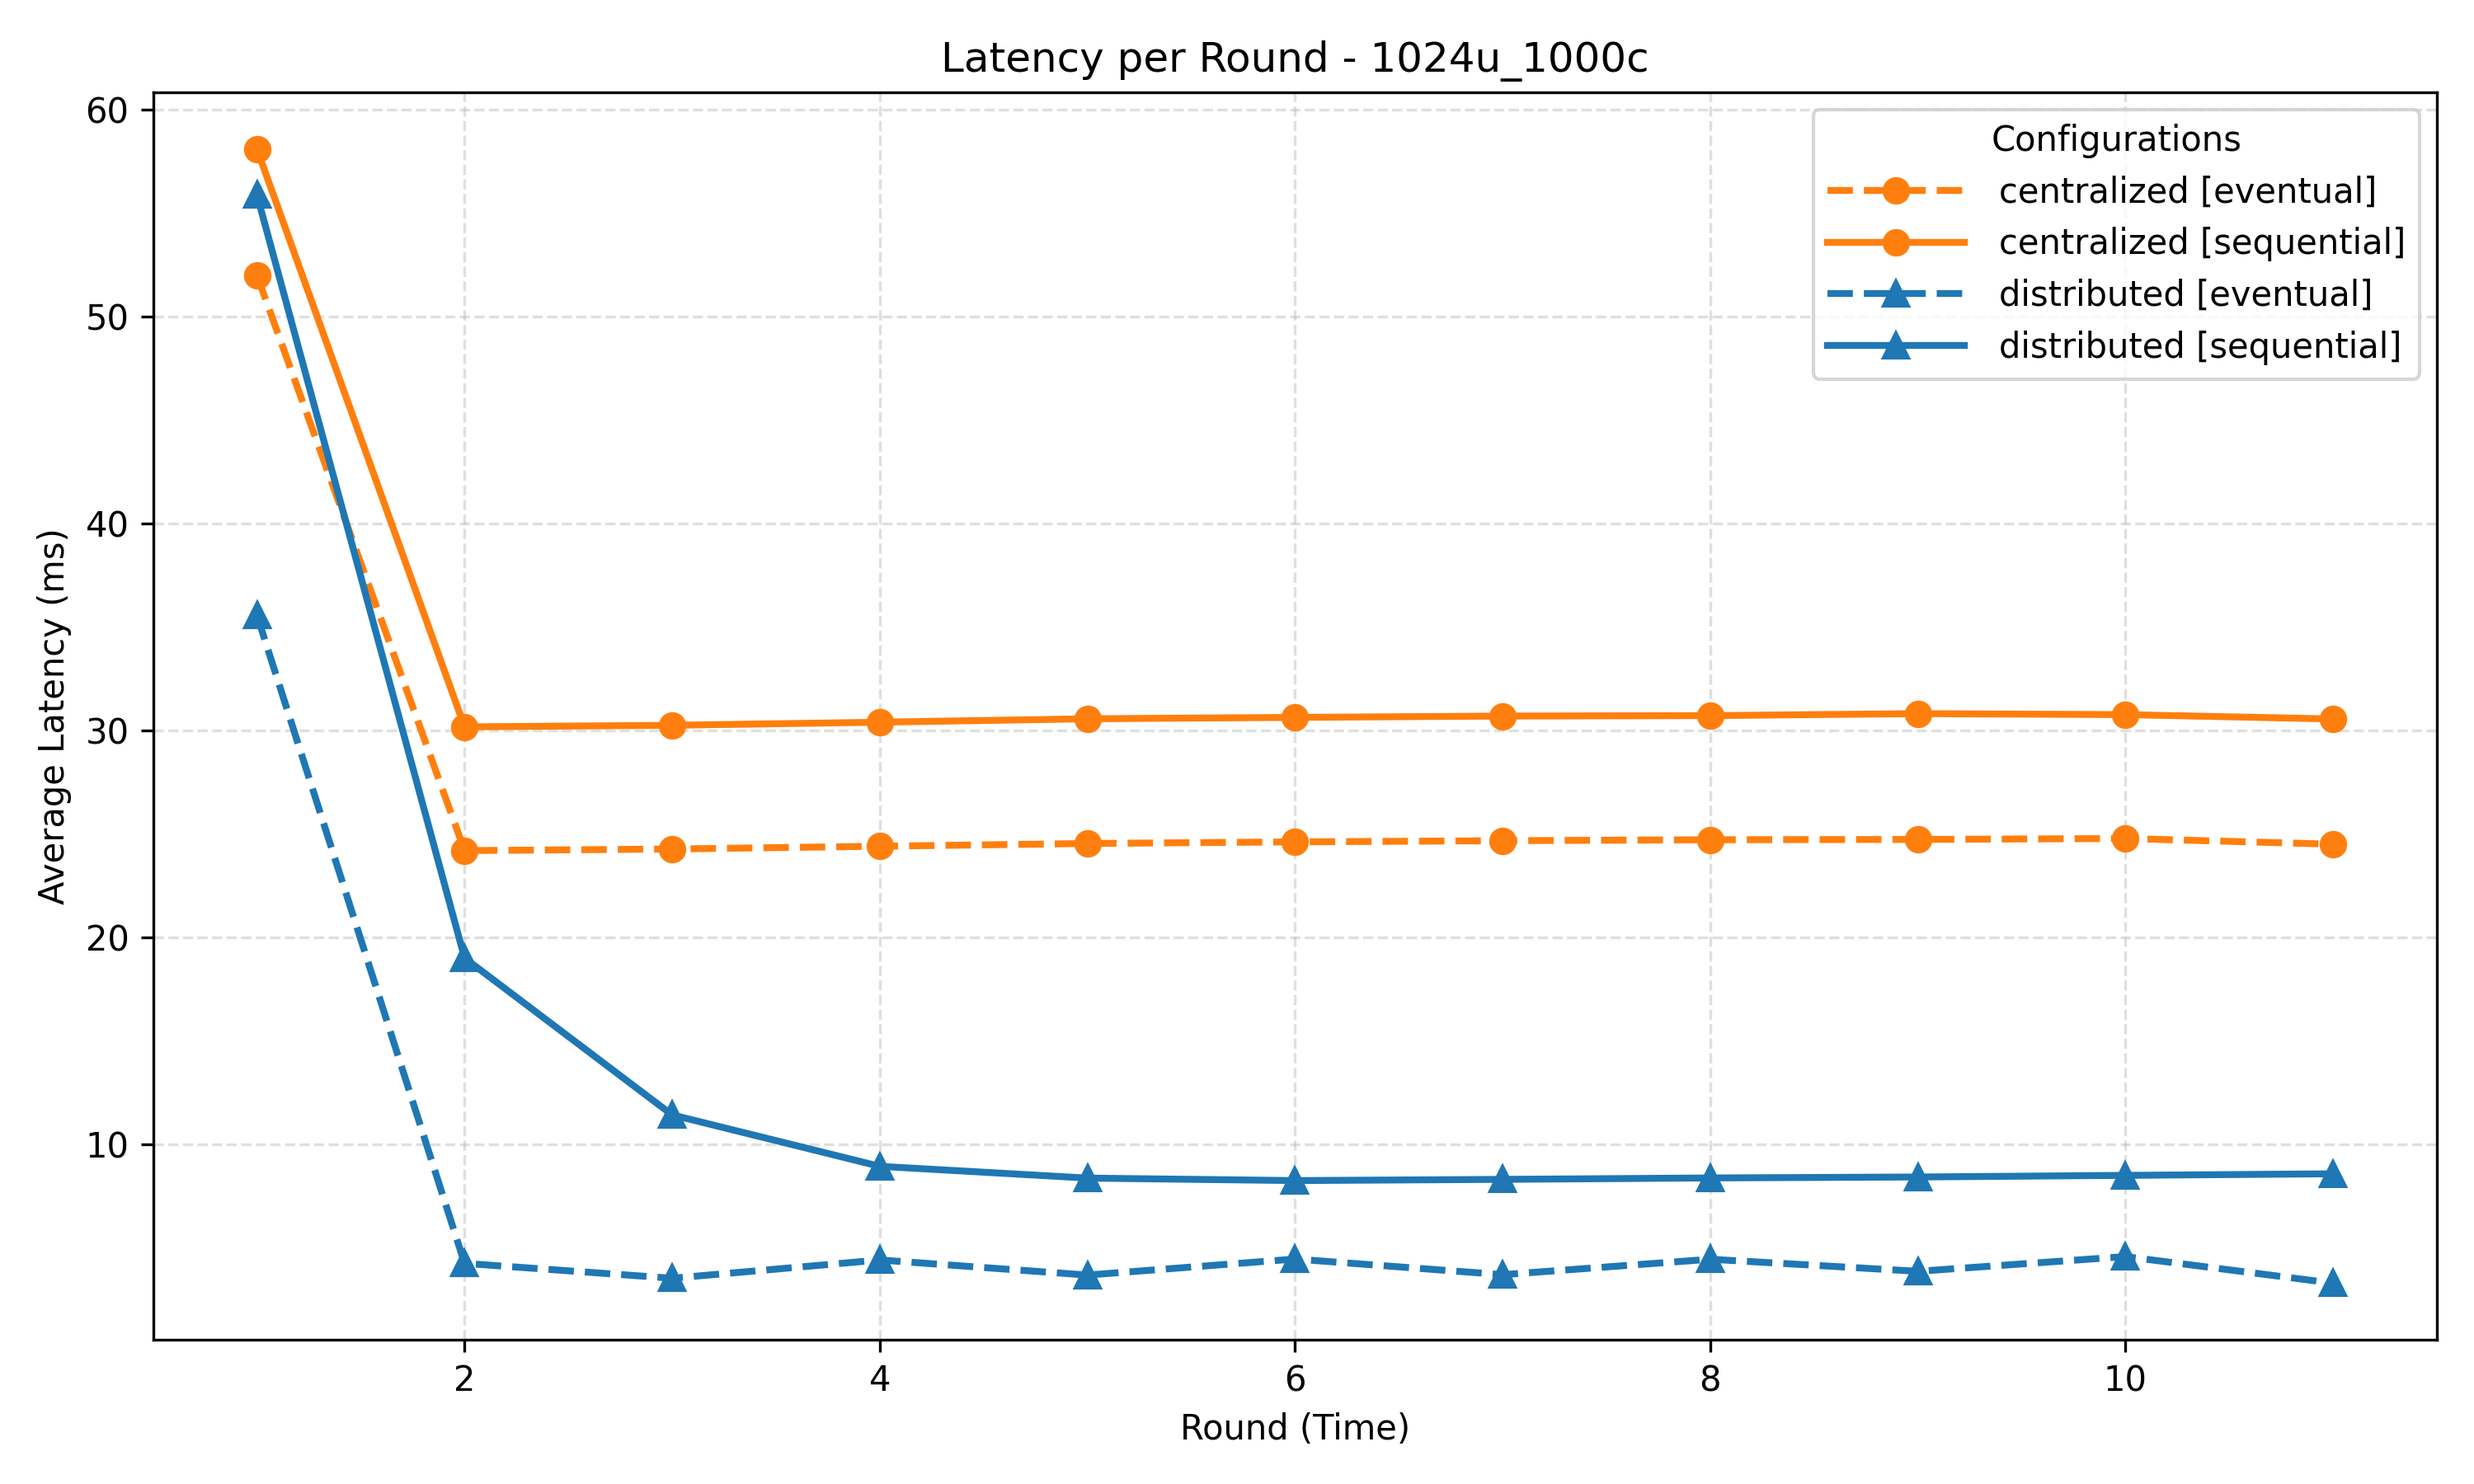
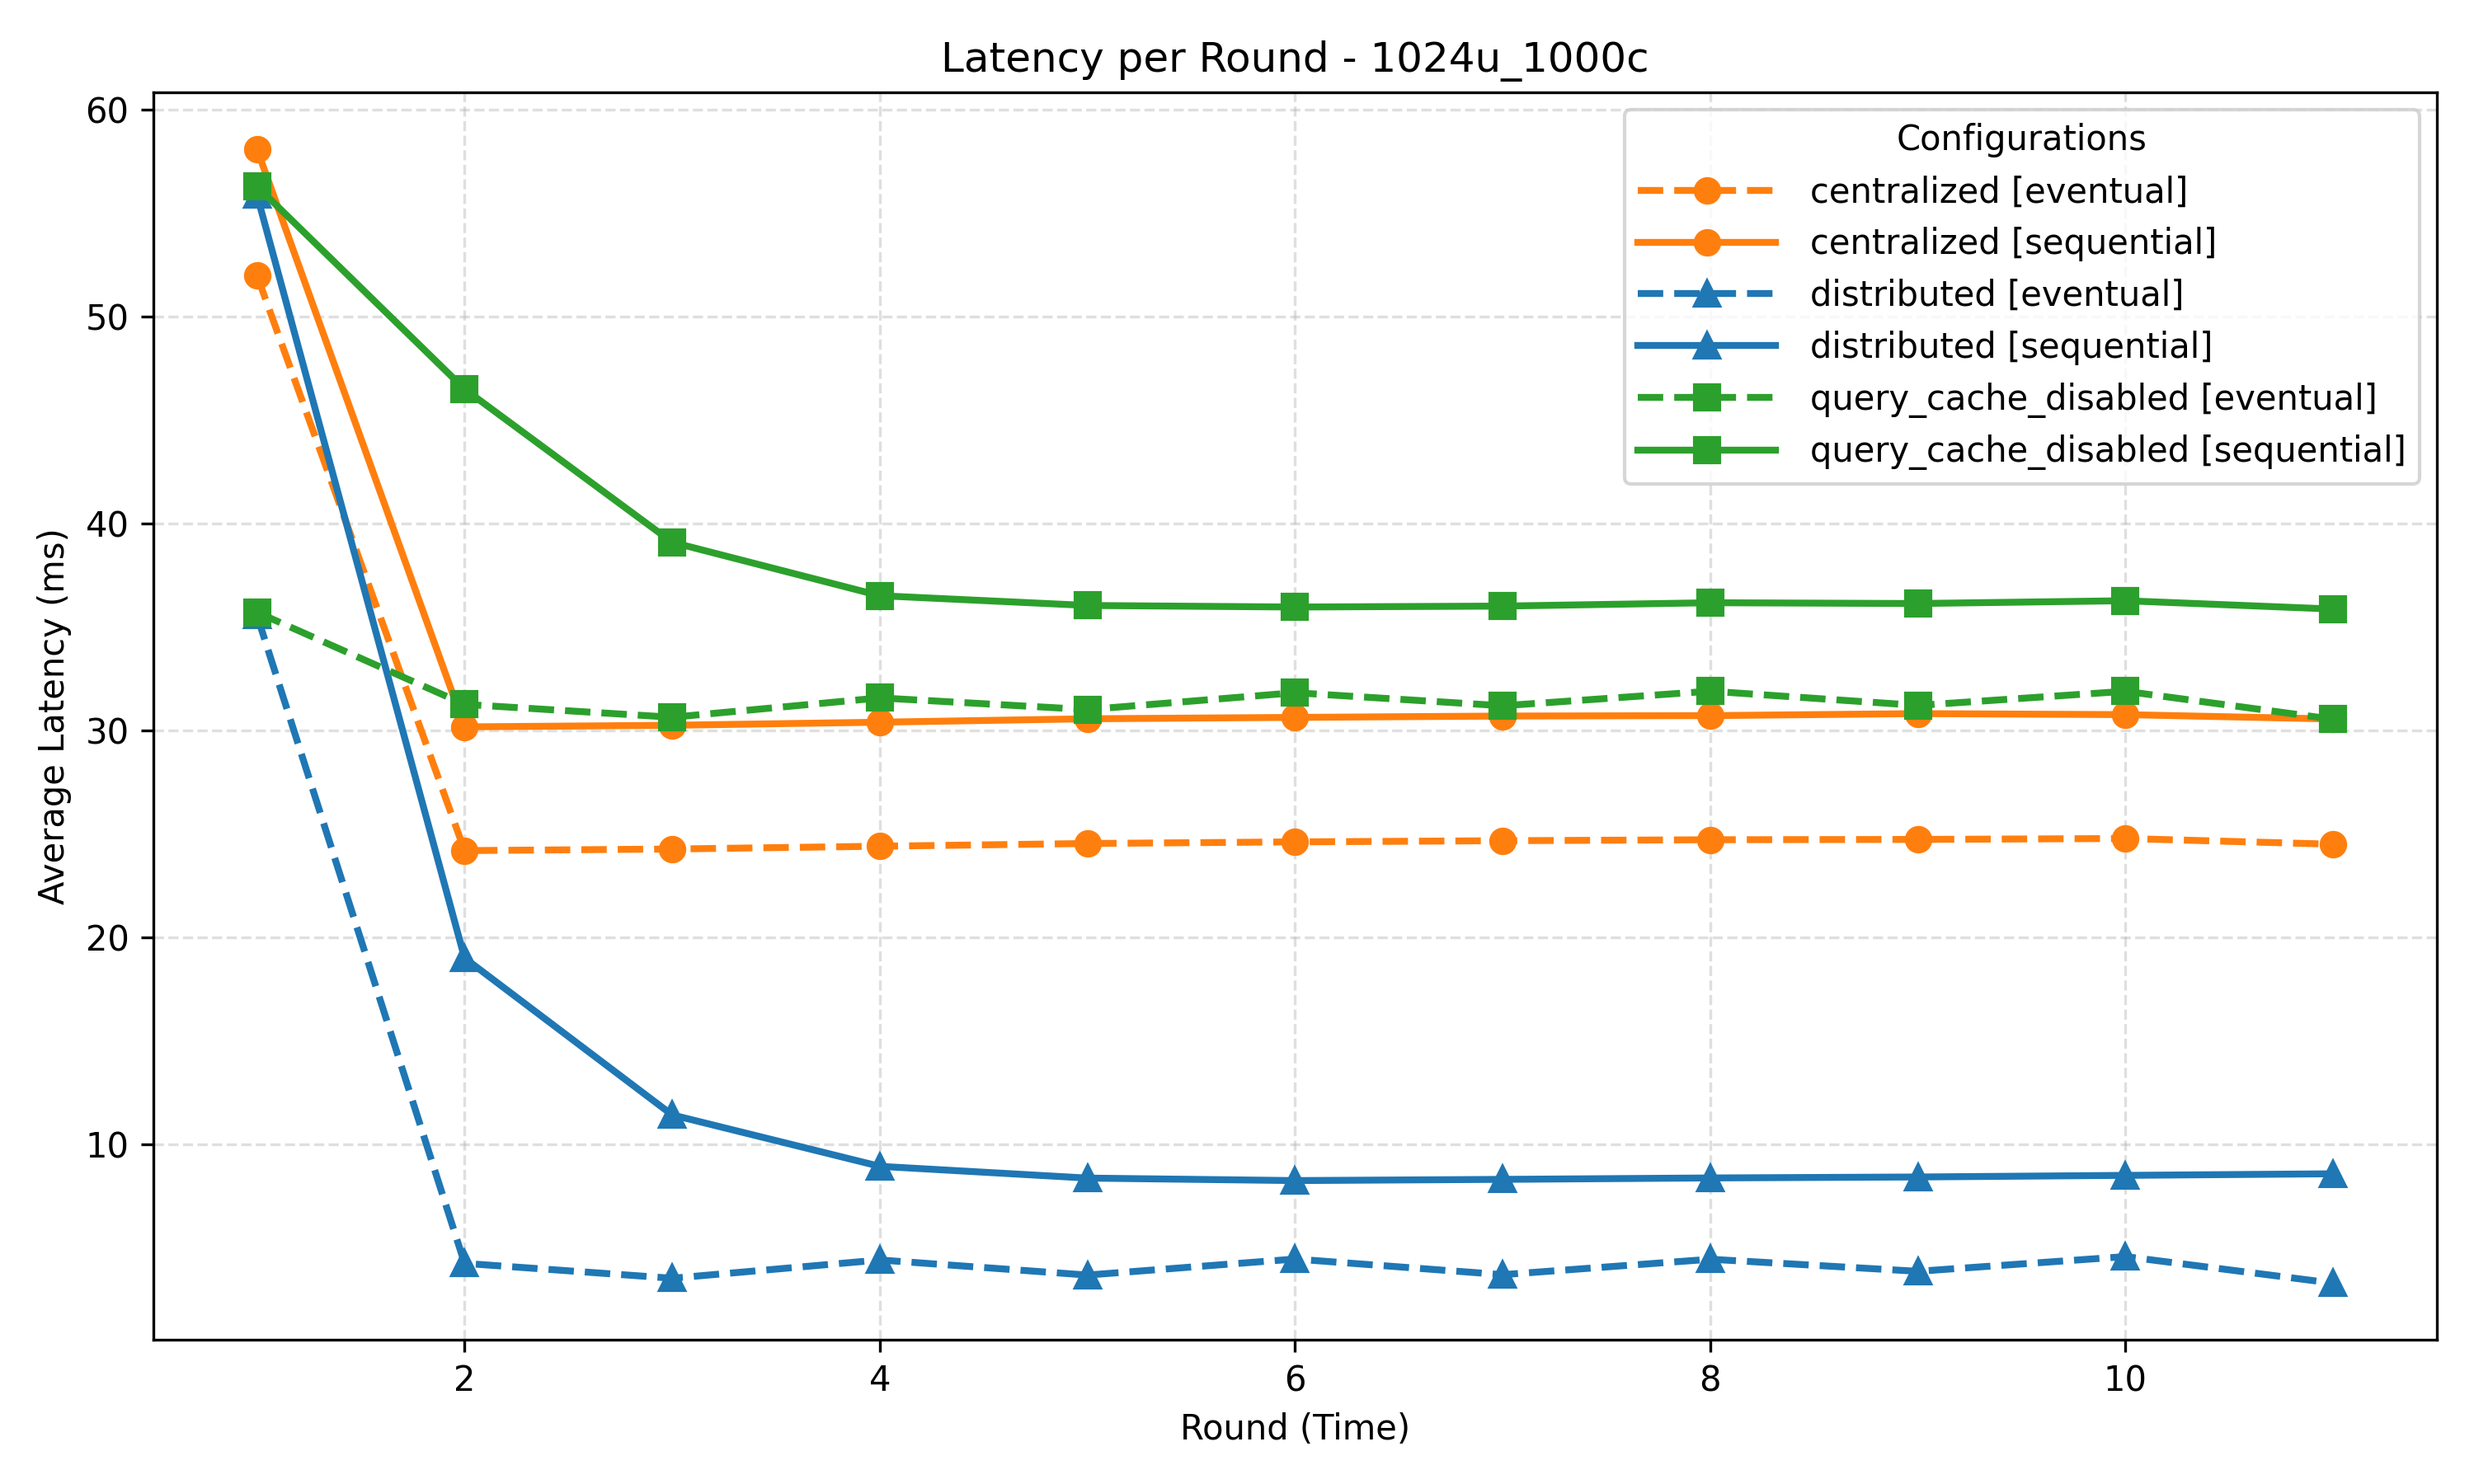
Add cache disabled in rounds graphs

diff --git a/ermes_benchmark/micro_bench/round_graph_generator.py b/ermes_benchmark/micro_bench/round_graph_generator.py
@@ -62,6 +62,10 @@ def process_all_round_folders():
                         color = 'tab:blue'
                         marker = '^'          # Triangolo per Distributed
                         arch_name = "distributed"
+                    elif 'query_cache_disabled' in fname_lower:
+                        color = 'tab:green'
+                        marker = 's'          # Quadrato per Query Cache Disabled
+                        arch_name = "query_cache_disabled"
                     else:
                         color = 'tab:gray'
                         marker = 'd'          # Diamante per altro
